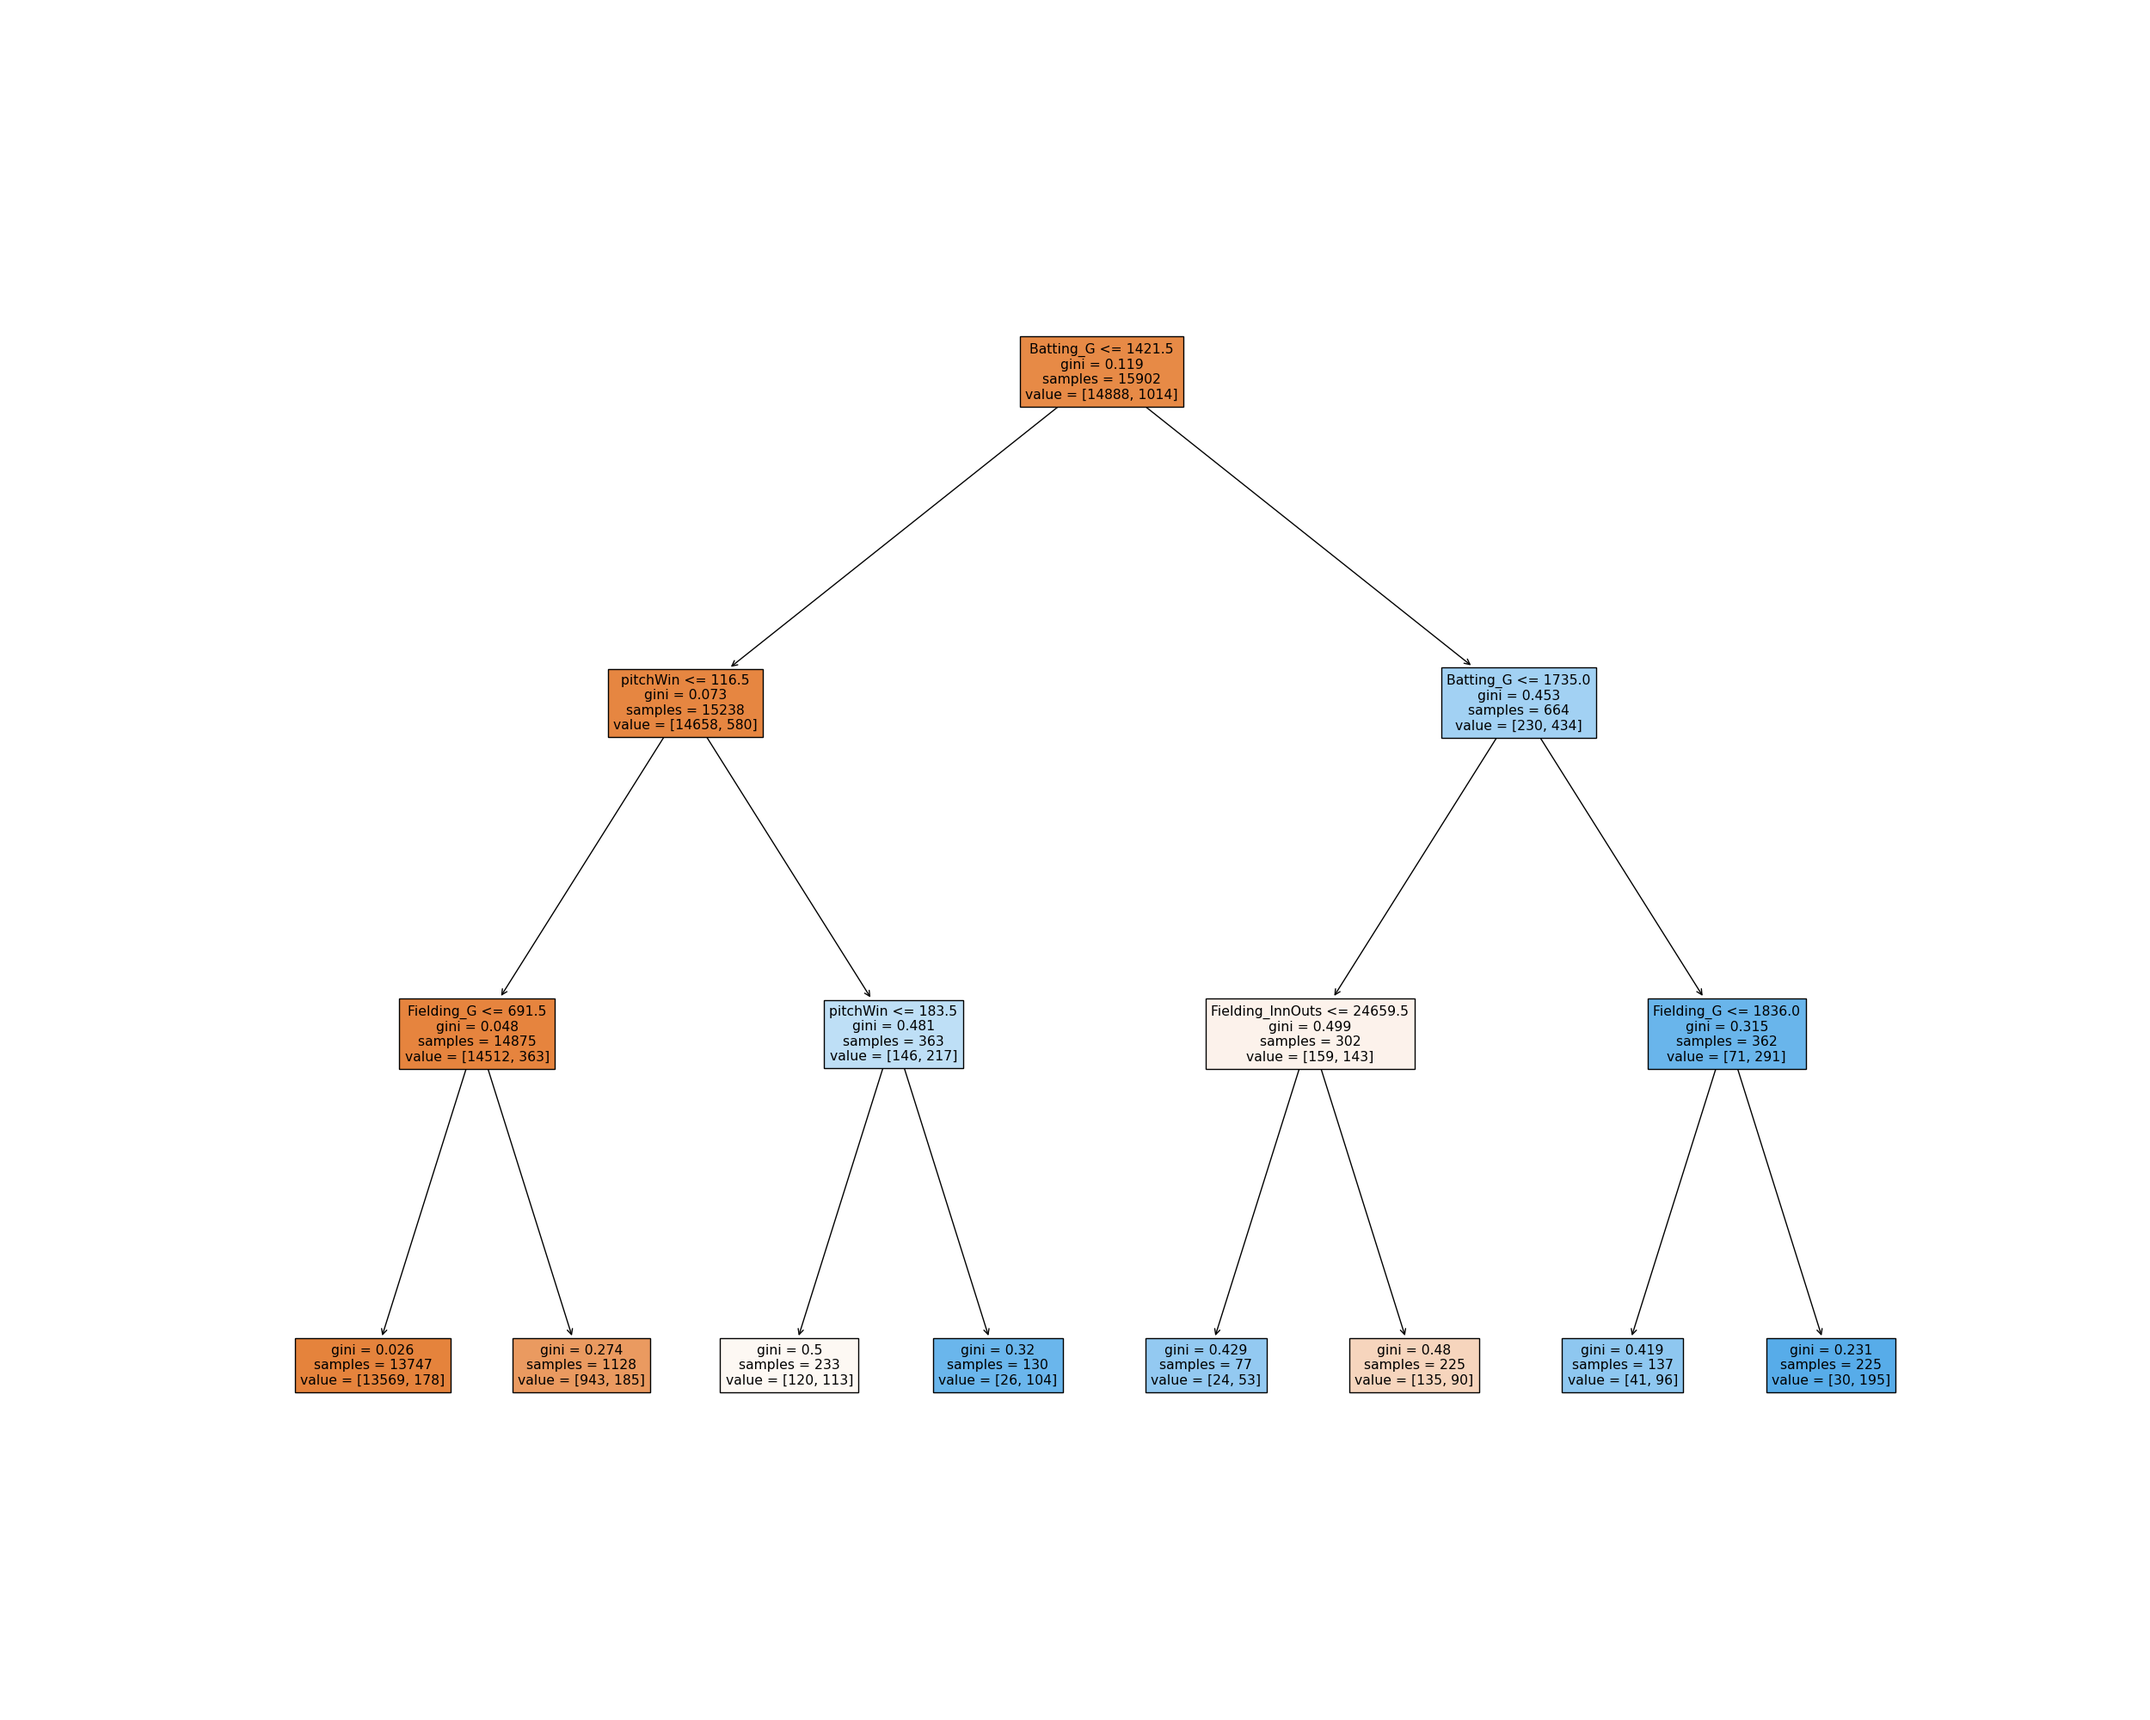
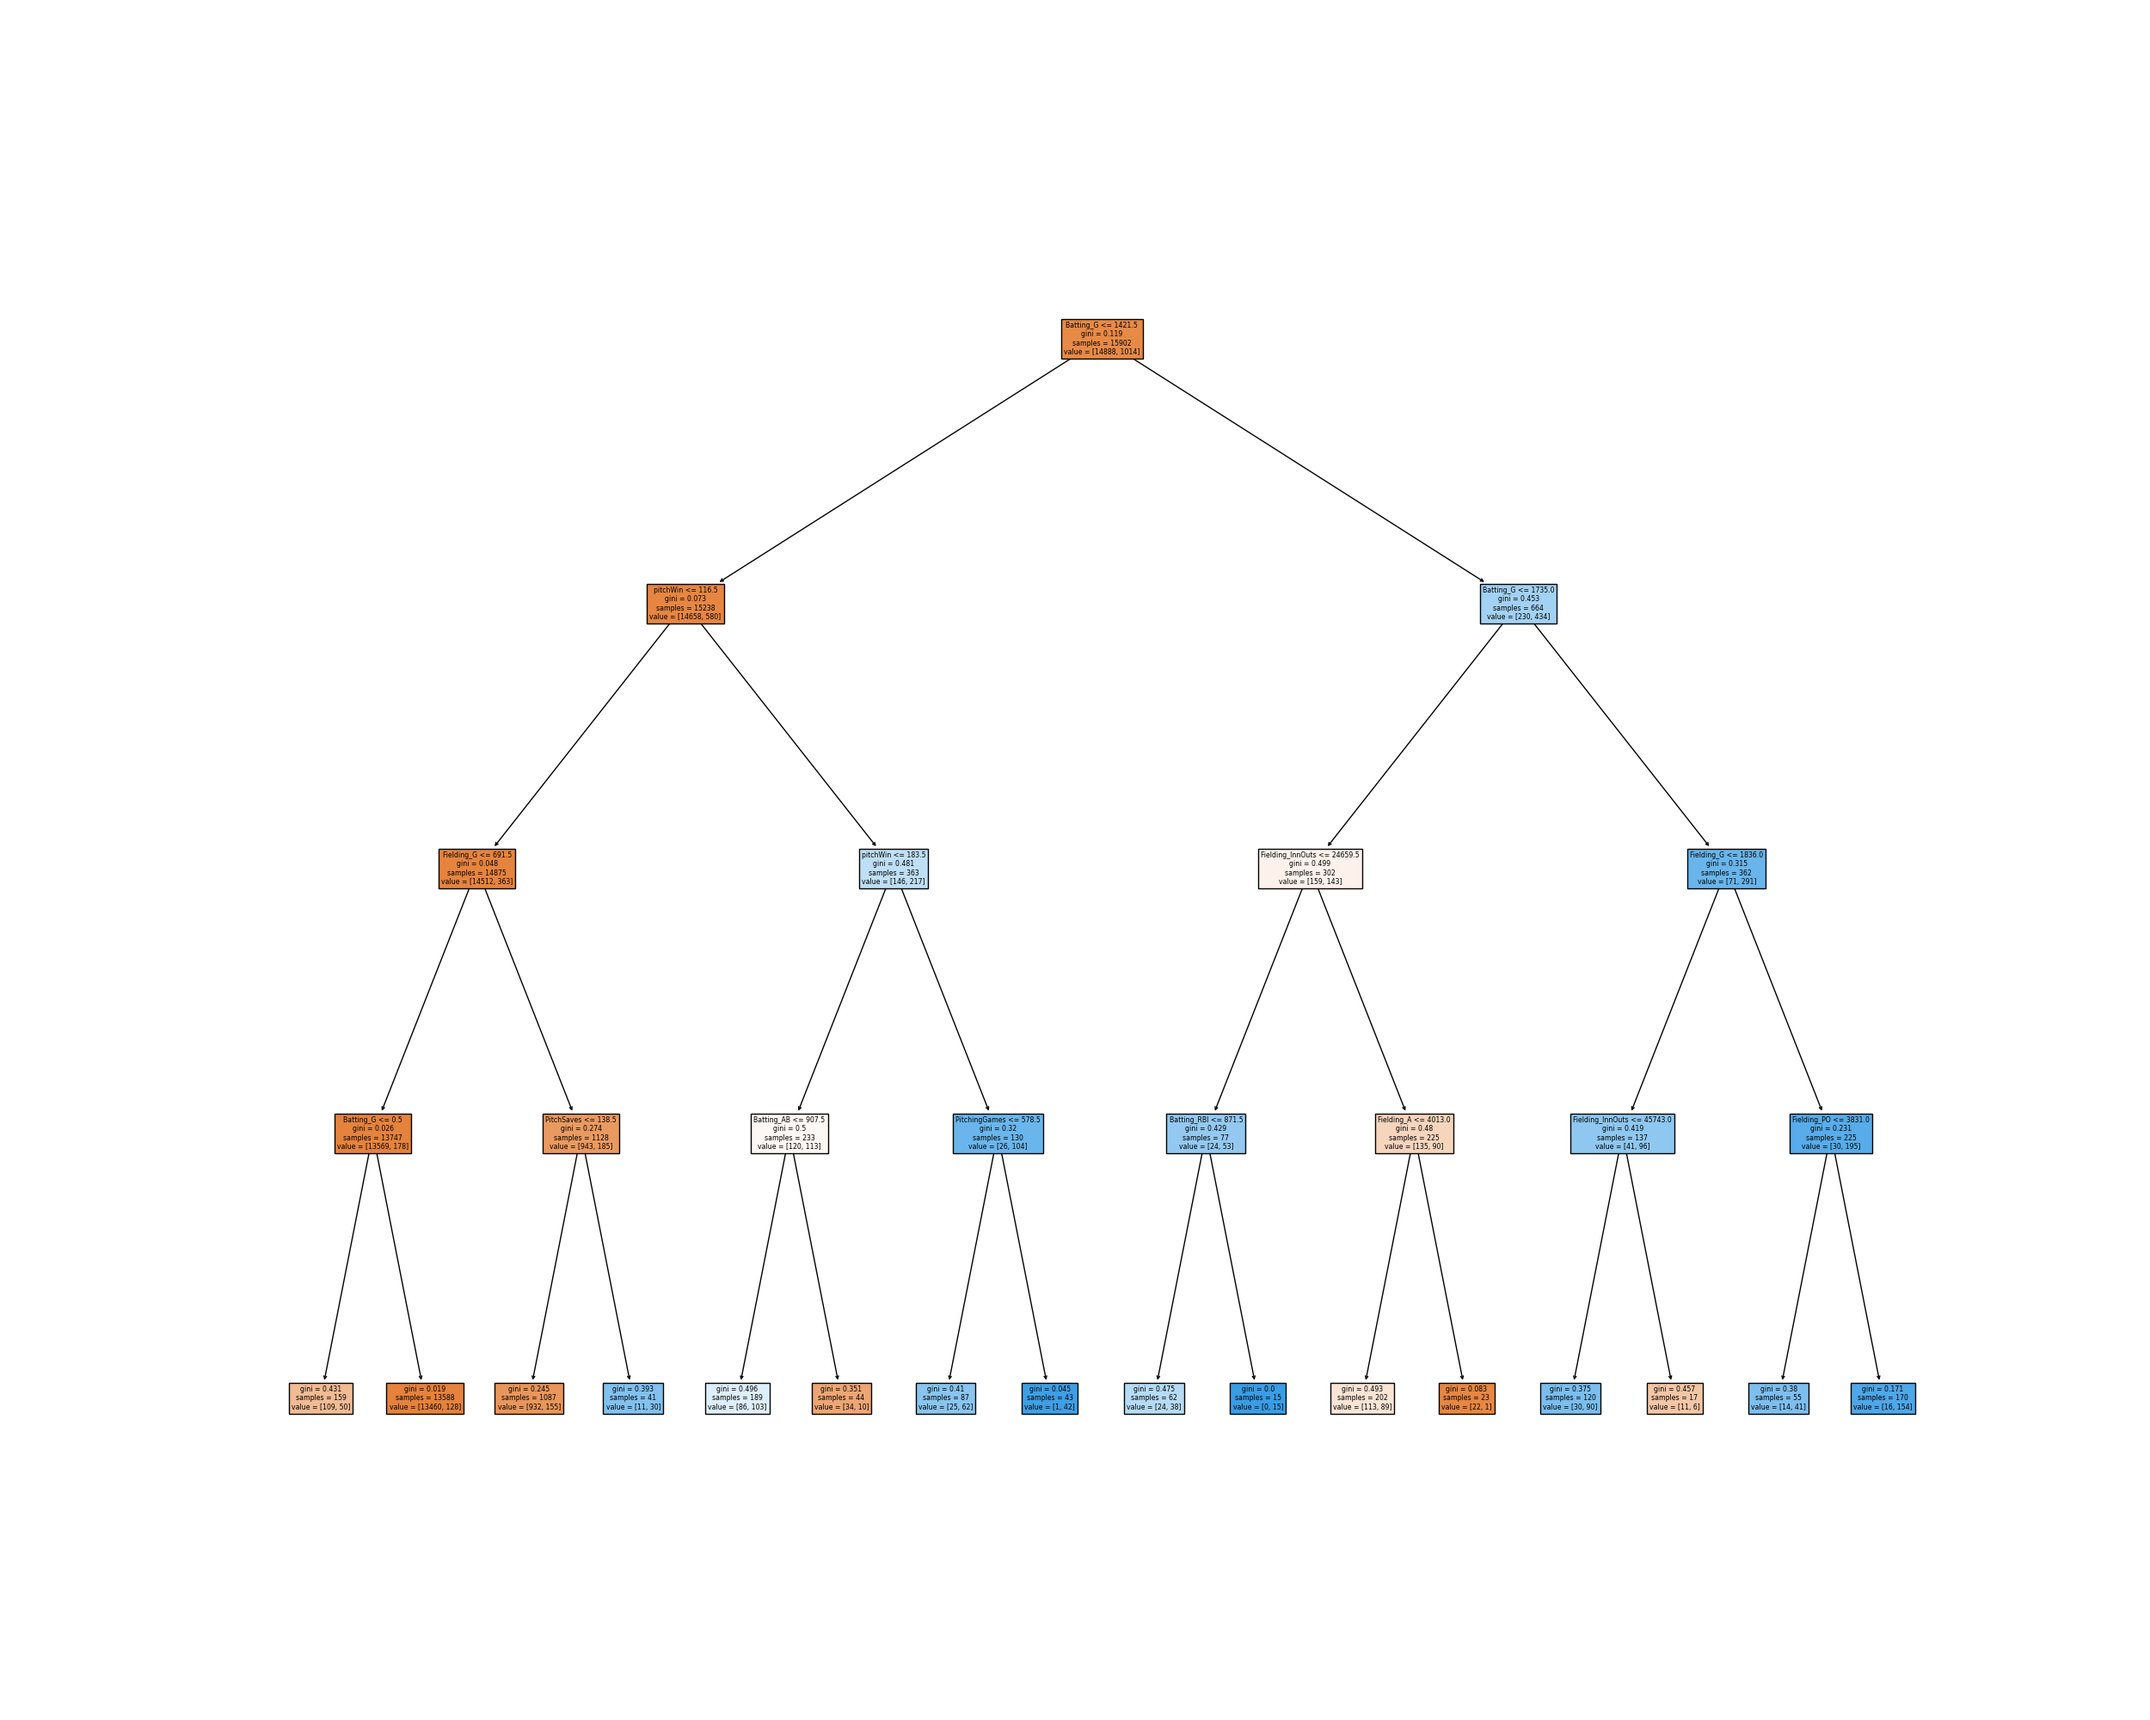
Tuned results

diff --git a/lab4.py b/lab4.py
@@ -5,7 +5,7 @@ from sklearn.tree import DecisionTreeClassifier
 from sklearn.metrics import confusion_matrix
 from sklearn.metrics import classification_report
 
-def sim(df, img):
+def sim(df, img, depth):
     df = df.fillna(0)
     X_train = df.sample(frac=0.8, random_state=25)
     Y_train = X_train["Class"]
@@ -16,7 +16,7 @@ def sim(df, img):
     Y_true = X_test["Class"]
     X_test = X_test.drop(["Class"], axis=1)
 
-    clf = DecisionTreeClassifier(max_depth=3, random_state = 13)
+    clf = DecisionTreeClassifier(max_depth=depth, random_state = 13, min_samples_split=10, min_samples_leaf=7)
     clf.fit(X_train, Y_train)
     y_pred = clf.predict(X_test)
     print(confusion_matrix(Y_true, y_pred))
@@ -28,8 +28,9 @@ def sim(df, img):
 def main():
     df = pd.read_csv('./TaskAbaseball.csv')
     df2 = pd.read_csv('./TaskBbaseball.csv')
-    sim(df,"TaskA.png")
-    sim(df2, "TaskB.png")
+    sim(df,"TaskA.png",4)
+    sim(df2, "TaskB.png",3)
 
 if __name__ == "__main__": 
     main()
+
